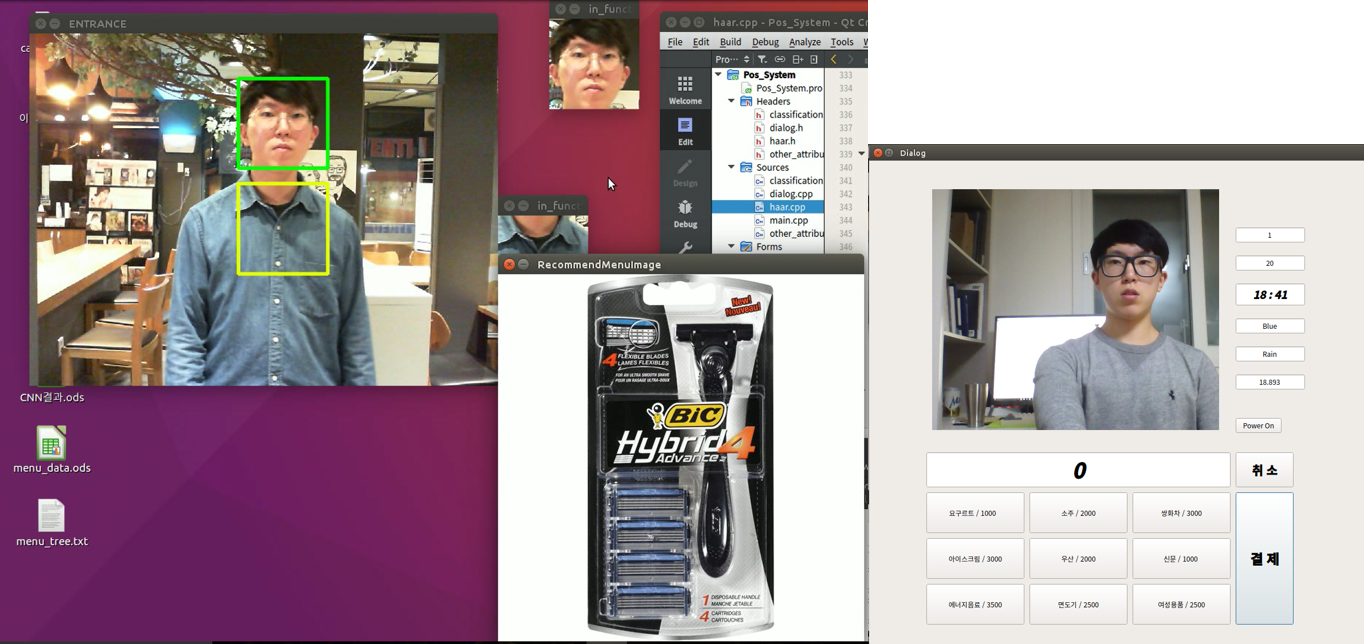
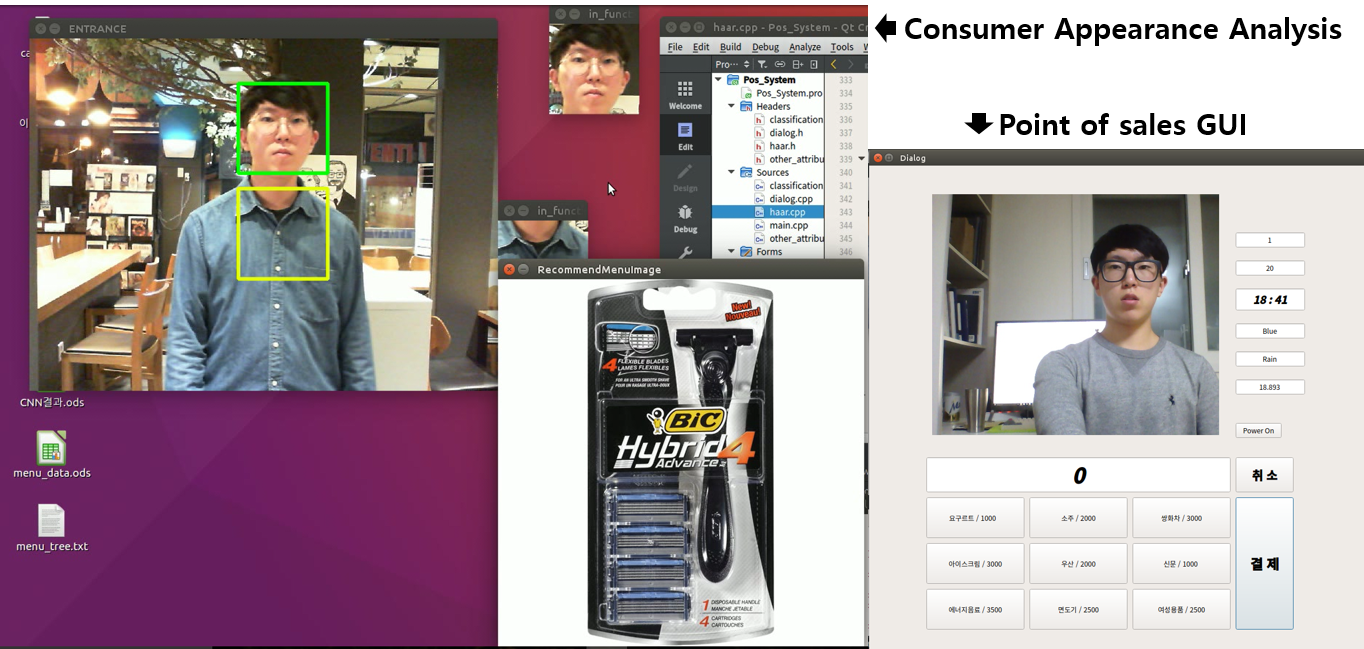
update: graduation project

diff --git a/index.md b/index.md
@@ -14,15 +14,16 @@ Researcher at [KAIST Global Institue For Talented EDucation](http://gifted.kaist
 >  * B.S. in Computer Science Engineering
 >  * Master in CSE and Machine Learning
 
-## Research Experience
+## Experience
 
-[Neural network and Robot Vision Lab](http://harmony.cs.pusan.ac.kr/~wiki/index.php/%EB%8C%80%EB%AC%B8) @ PNU (2016.7~2019.2)
-
+- Graduation Project : [Consumer Appearance Analysis using CNN and Product Recommendation](https://docs.google.com/document/d/1qZqBvD-krvwL3C6pupa9SHBwrXVaOJpDew5K0vDpO1s/edit?usp=sharing) <br/> <img src="https://github.com/YongWookHa/yongwookha.github.io/blob/master/graduation_project.png?raw=true" width="700" height="270">
 - National Research Project : Tracking Underwater object and Clustering behavior patterns by SOM : <br/><img src="https://user-images.githubusercontent.com/12293076/51790000-eb893f80-21d2-11e9-8cbb-85a5e7caf225.png" width="700" height="270">
 - Master's Thesis : [Photo-Realistic Image Generation Using Variational AutoEncoder and Neural Network based Super-Resolution](https://yongwookha.github.io/hayongwook-masterpaper/)<br/><img src="https://github.com/YongWookHa/yongwookha.github.io/blob/master/generated_faces.png?raw=true" width="300" height="300">
 -  Private Project : [Dance like Bruno Mars using Style Transfer](https://github.com/YongWookHa/pose2pose)<br/>[![pose2pose-demo](http://img.youtube.com/vi/Nc0LNrzDeXQ/0.jpg)](https://youtu.be/Nc0LNrzDeXQ)
 
 ## Work Experience
+
+[Neural network and Robot Vision Lab](http://harmony.cs.pusan.ac.kr/~wiki/index.php/%EB%8C%80%EB%AC%B8) @ PNU (2016.7~2019.2)
 
 [Global Institue For Talented EDucation](http://gifted.kaist.ac.kr/) @ KAIST (2019.3~)
 
